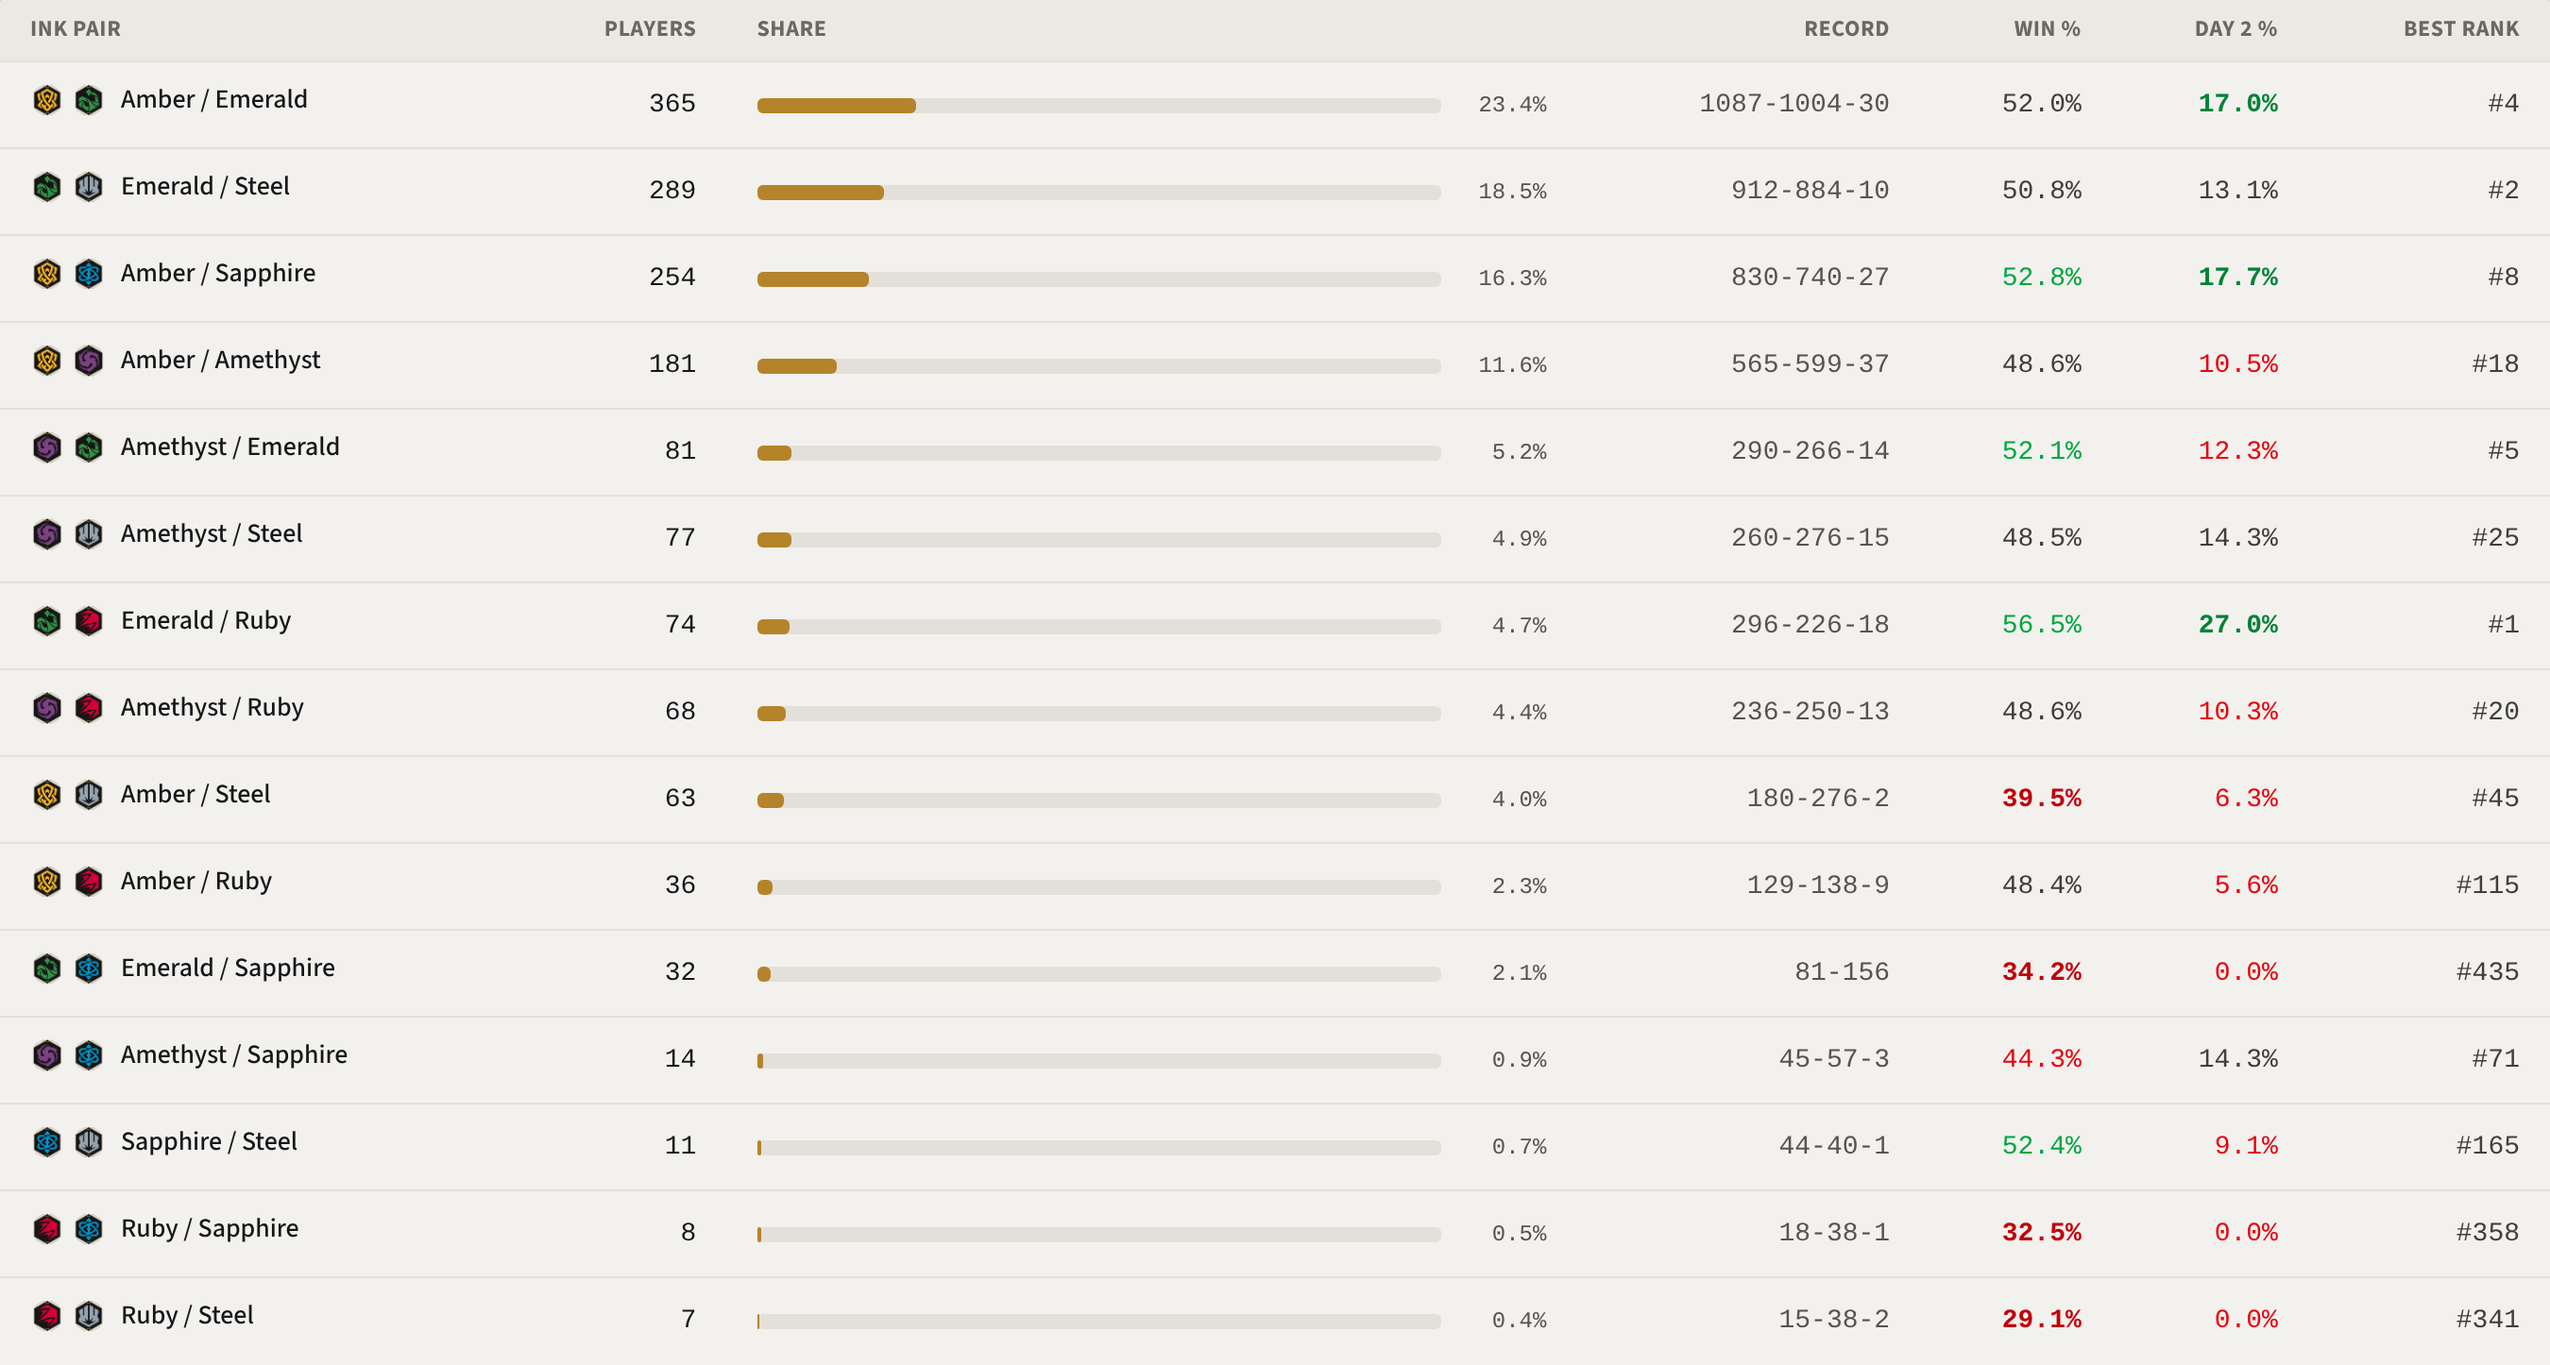
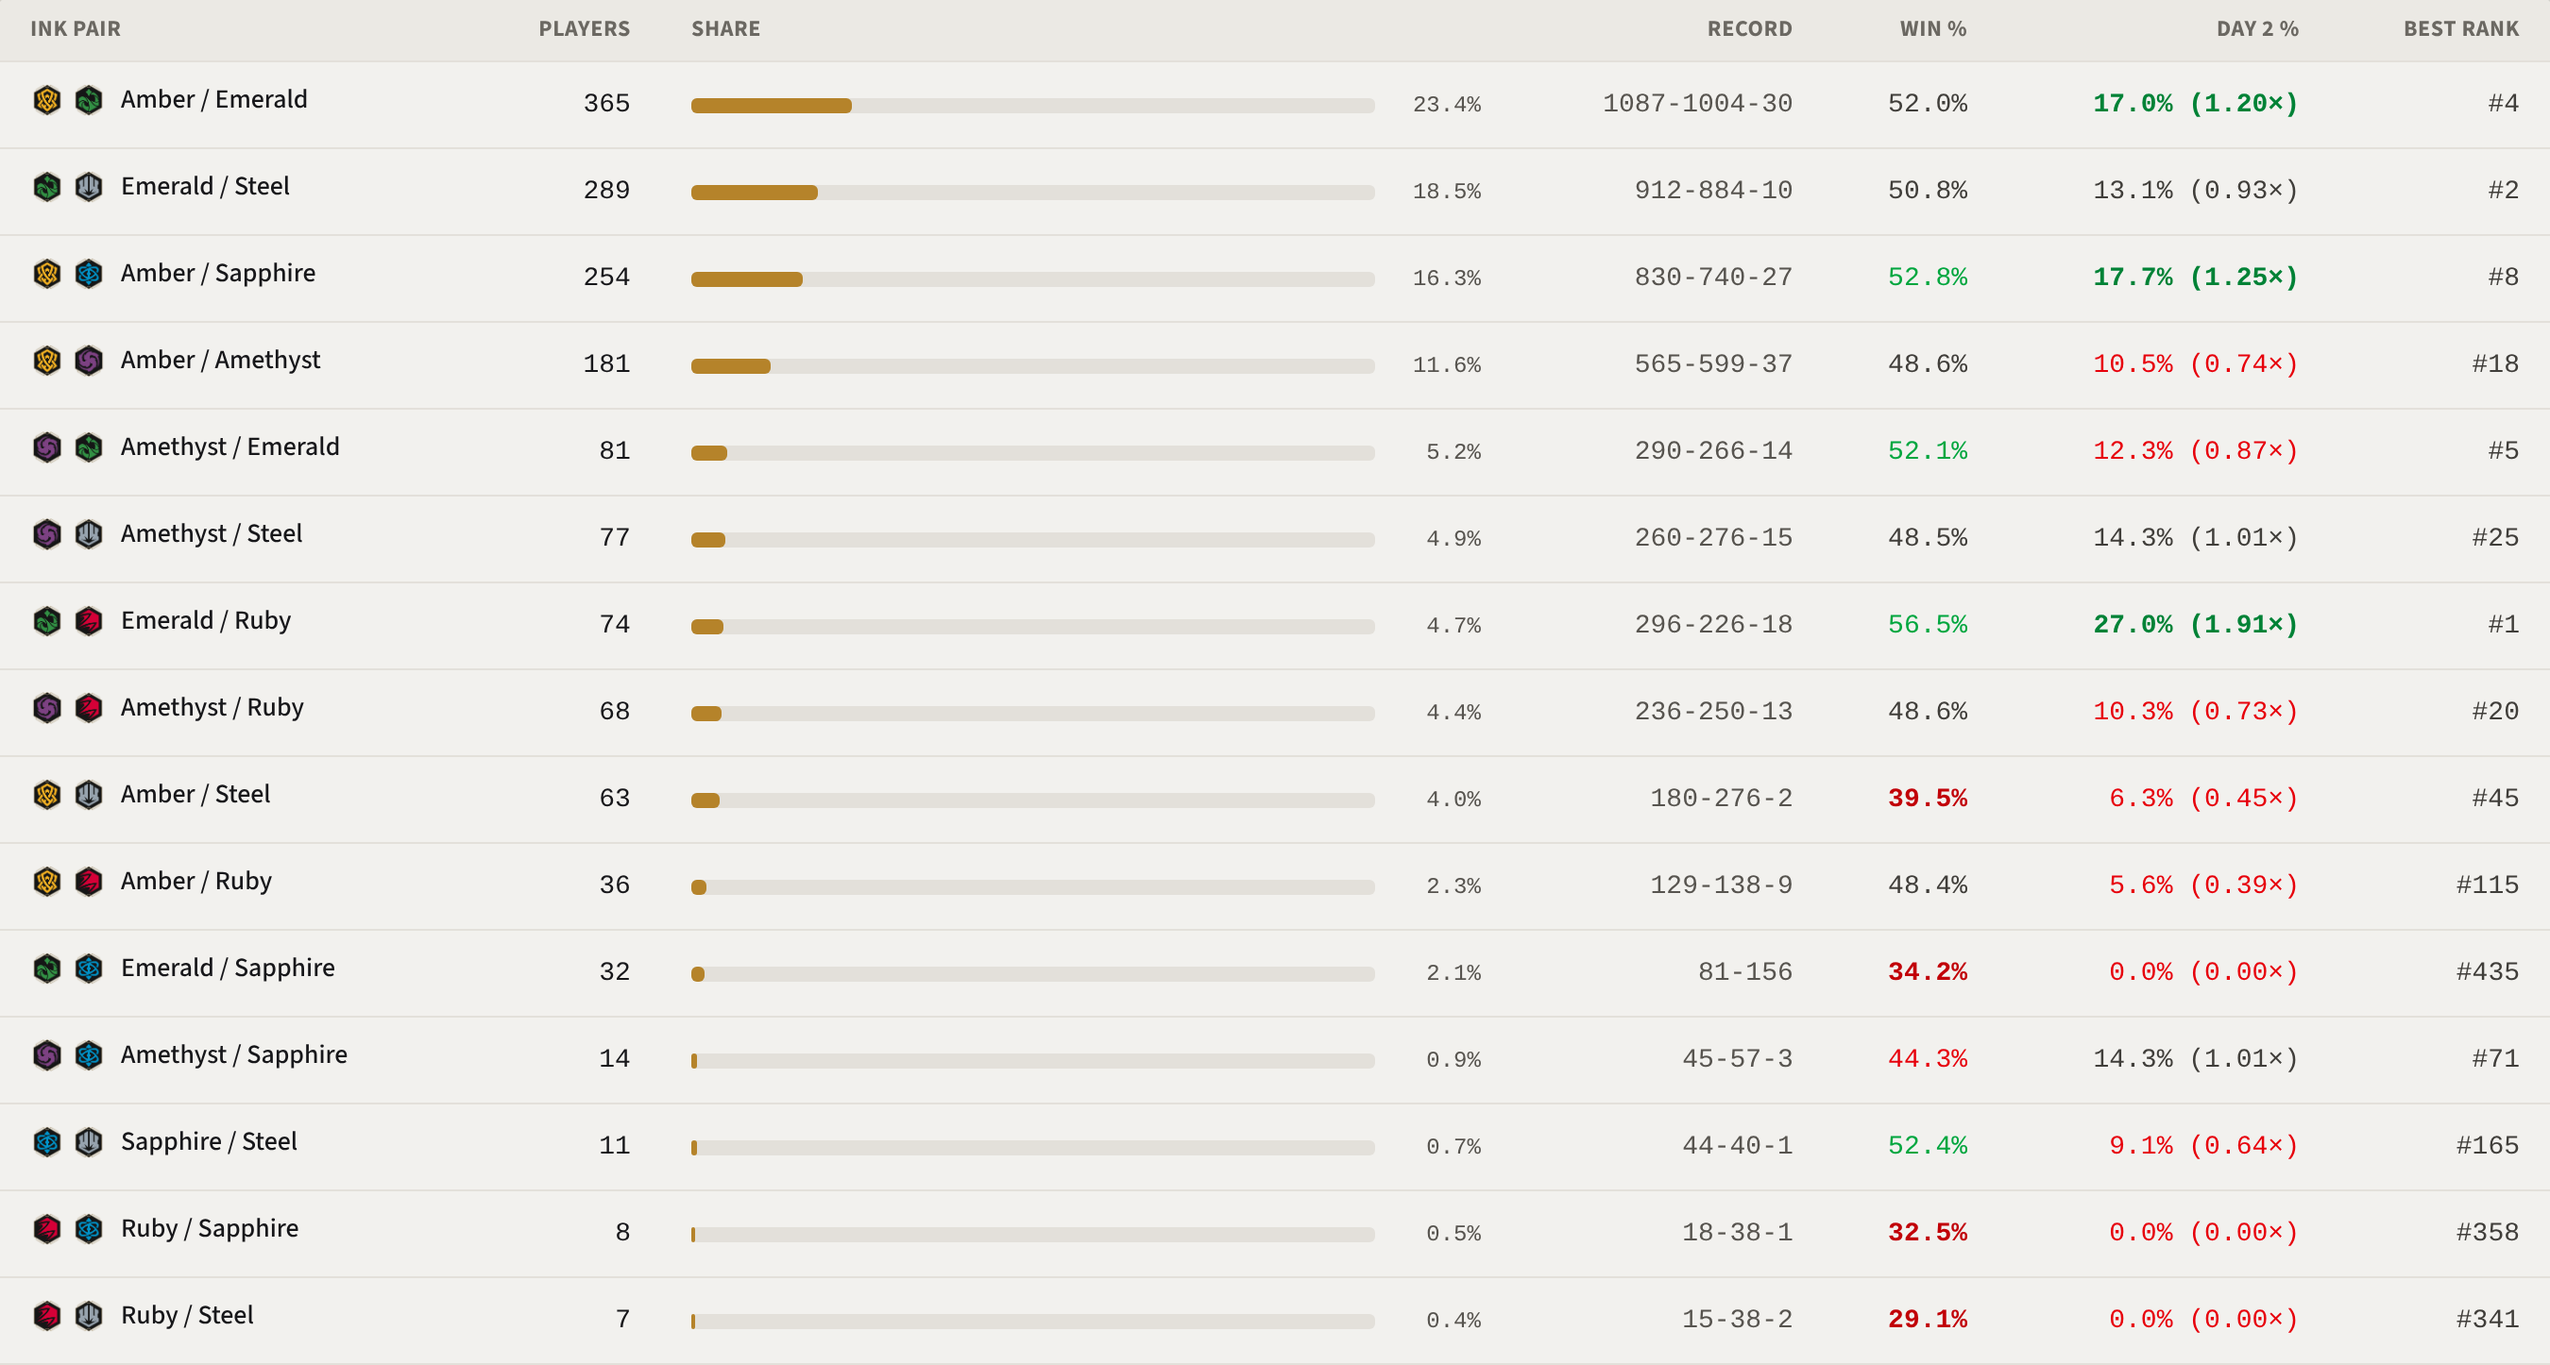
Metagame: show Day 2 lift in brackets beside the %
"17.0% (1.20×)" on the tab and both share images, so the ratio to the
field is read, not inferred from the color.

Claude-Session: https://claude.ai/code/session_01TJQgsyP1YdC9qdNy562f41

diff --git a/src/components/InkPairStats.jsx b/src/components/InkPairStats.jsx
@@ -169,8 +169,8 @@ export function InkMetaTab({ allMatches, structure, standings }) {
                   <td className="px-4 py-2.5 text-right font-mono text-gray-600">{record(r)}</td>
                   <td className={`px-4 py-2.5 text-right font-mono ${winrateTextColor(r.winRate)}`}>{pct(r.winRate)}</td>
                   {firstCut && (
-                    <td className={`px-4 py-2.5 text-right font-mono ${liftColor(firstCut.byKey.get(r.key)?.lift)}`} title={`${firstCut.byKey.get(r.key)?.count ?? 0} of ${r.players} · ${liftText(firstCut.byKey.get(r.key)?.lift)} the field`}>
-                      {pct(firstCut.byKey.get(r.key)?.conversion)}
+                    <td className={`px-4 py-2.5 text-right font-mono ${liftColor(firstCut.byKey.get(r.key)?.lift)}`} title={`${firstCut.byKey.get(r.key)?.count ?? 0} of ${r.players} made ${firstCut.label}`}>
+                      {pct(firstCut.byKey.get(r.key)?.conversion)} ({liftText(firstCut.byKey.get(r.key)?.lift)})
                     </td>
                   )}
                   {standings && <td className="px-4 py-2.5 text-right font-mono text-gray-700">{bestRank.has(r.key) ? `#${bestRank.get(r.key)}` : '—'}</td>}
@@ -181,7 +181,7 @@ export function InkMetaTab({ allMatches, structure, standings }) {
         </div>
         <p className="px-4 py-2 text-xs text-gray-500 border-t border-gray-100">
           {players} players with a submitted deck. Win % counts reported matches against other pairs (draws as half), mirrors excluded.
-          {firstCut && ` ${firstCut.label} % is the share of a pair's players who made ${firstCut.label} (field: ${pct(firstCut.field)}); green converted 10%+ better than the field, red 10%+ worse. The Conversion tab has every cut.`}
+          {firstCut && ` ${firstCut.label} % is the share of a pair's players who made ${firstCut.label} (field: ${pct(firstCut.field)}); in brackets, that over the field's rate, so (1.20×) converted 20% better than the field. The Conversion tab has every cut.`}
         </p>
       </div>
       <ShareDownloadLink render={(video) => renderMetaShareImage({ matches: allMatches, structure, standings, firstCut, video })} filename={shareFilename(structure, 'metagame')} />

diff --git a/src/lib/tournamentLookupShareImage.js b/src/lib/tournamentLookupShareImage.js
@@ -63,7 +63,7 @@ const liftFill = (lift) => (lift == null ? MUTED : lift >= 1.1 ? WIN : lift <= 0
 export async function renderMetaShareImage({ matches, structure, standings, firstCut, video }) {
   const rows = inkPairMeta(matches)
   const bestRank = bestRankByPair(standings, playerInks(matches))
-  const rankCol = (standings ? 100 : 0) + (firstCut ? 110 : 0)
+  const rankCol = (standings ? 100 : 0) + (firstCut ? 200 : 0)
   const { icons, mark } = await loadAssets(rows.map((r) => r.inks))
   const PAD = 56
   const TOP = 236
@@ -103,13 +103,13 @@ export async function renderMetaShareImage({ matches, structure, standings, firs
     text(ctx, pct(wr), COLS.win, mid, { font: `600 24px ${DISPLAY}`, color, align: 'right', baseline: 'middle' })
     if (firstCut) {
       const cut = firstCut.byKey.get(r.key)
-      text(ctx, pct(cut?.conversion), COLS.cut, mid, { font: `600 24px ${DISPLAY}`, color: liftFill(cut?.lift), align: 'right', baseline: 'middle' })
+      text(ctx, `${pct(cut?.conversion)} (${liftText(cut?.lift)})`, COLS.cut, mid, { font: `600 24px ${DISPLAY}`, color: liftFill(cut?.lift), align: 'right', baseline: 'middle' })
     }
     if (standings) text(ctx, bestRank.has(r.key) ? `#${bestRank.get(r.key)}` : '—', COLS.best, mid, { font: `600 24px ${DISPLAY}`, align: 'right', baseline: 'middle' })
   })
 
   const note = firstCut
-    ? `${players.toLocaleString('en-US')} decks · win % vs other pairs, mirrors out · ${firstCut.label} %: made ${firstCut.label} (field ${pct(firstCut.field)})`
+    ? `${players.toLocaleString('en-US')} decks · win % vs other pairs, mirrors out · ${firstCut.label} % (× the field's ${pct(firstCut.field)})`
     : `${players.toLocaleString('en-US')} players with a submitted deck · win % vs other pairs, draws as half, mirrors left out`
   drawFooter(ctx, W, H, PAD, note, cam)
   return canvas

diff --git a/docs/agents/tournaments.md b/docs/agents/tournaments.md
@@ -16,7 +16,7 @@ Until a round has generated standings (`currentRoundId` is null) the page shows 
 
 ## Ink pairs (Metagame and Matchups tabs)
 
-Events that show deck descriptors (a phase's `effective_show_deck_descriptor_to_opponents`; DLC London 1254364 does, DLC Bangkok 1233041 does not) put each player's submitted deck's inks on every match as `player_match_relationships[].user_event_status.deck_descriptor_label` (`parts[0].value` "amethyst,ruby"). Standings and registrations do not carry it, and the profile picture (`EmeraldSteel.webp`) is the player's avatar, not their deck. Public on both hosts, no session; in London 1,477 players had one, each the same across all their rounds, and 53 slots had none (no deck submitted). `src/lib/tournamentInks.js` (unit-tested) reads it: `playerInks()` (shown beside names in Standings, Roster and Matches), `inkPairMeta()` (Metagame: players, share, the record against other pairs, mirrors excluded, and once standings exist each pair's best standings rank, `bestRankByPair()`, the same leaders as Best Of) and `inkPairMatrix()` (Matchups: each pair's overall win %, record and best rank beside the grid of the row pair's match win rate against each column pair, draws as half, mirrors on the diagonal). Byes, assigned losses and unreported matches are skipped. Both tabs appear only when a loaded match has a pair. Each tab ends with **Download Social Media Share**: `src/lib/tournamentLookupShareImage.js` draws the tab as a PNG on a canvas (2× scale) in the site's brand (ink black, forge gold, Oswald and Source Sans 3, the InkbornForge mark, `inkbornforge.com/tournament-lookup`), headed by the event name, format, starting players and the round the data runs through (`eventLine()`); the matchup image adds a vs-field column and fades cells under 5 matches. The **Best Of** tab (RPH's Best Of promo test: the highest-standing player on each ink pair wins a promo) lists the 15 two-ink pairs with the best-ranked player on each (`bestOfLeaders()`: the first standings row per pair, so RPH's tiebreakers settle ties; dropped players are not excluded). Each leader carries `tied`, the pair's other players on the same match points in standings order: the tab shows "N more on X pts", which expands to list them with rank and record, and the image adds "(and N others)", with the same share download (`renderBestOfShareImage()`). It needs standings as well as a pair. The **Conversion** tab (`ConversionTab`, `conversionFunnel()` and `cutQualifiers()` in `tournamentInks.js`) follows the field by ink pair through each cut: Day 1 players, then per cut the pair's players who made it, its conversion from the stage before and its lift over the field's conversion (1.25× = converted 25% better; lift, not the Day 2 minus Day 1 share delta, because a share delta can't move for a small pair). The cuts are `structure.cuts` (`phaseCuts()` in `tournamentApi.js`): each phase after the first with `rank_required_to_enter_phase` (Top 8) or `points_required_to_enter_phase` (a DLC's Day 2, 18), decided by the standings of the previous phase's last round once all its rounds exist and that round's standings are generated, so Day 2 shows as soon as Day 1's last round has standings, before any Day 2 match. RPH never puts the points cutoff on the event's phases: it lives on the event's configuration template (`event.phase_template_group` → `event-configuration-templates` → `allowed_phase_template_groups[].phase_templates[]`, matched by `order_in_phases`), which `fetchEventDetails()` fetches once per page load (`/api/tournament?type=templates`) and copies onto the phases (`withPhasePoints()`); `analyzeAdvancement` reads the same cutoff and counts only the rounds left in the current phase (`phaseRoundsRemaining`; a DLC's Day 2 rounds come after its Day 2 cut), while top-cut ID analysis keeps `swissRoundsRemaining`. The Discord bot's `api/_lib/discordTournamentApi.ts` fetches the templates the same way (its own `withPhasePoints()`, unit-tested in `api/_lib/__tests__/discordTournamentApi.test.ts`). Metagame adds a column for the first decided cut (`Day 2 %`, colored by lift), also on its share image (`renderMetaShareImage({ firstCut })`); both tabs read the deciding standings through `useCutStages()` in `InkPairStats.jsx`. Players without a submitted deck are left out of every stage (DLC London 1254364: 1,560 of 1,633; Day 2 221, 14.2%). Its share image is `renderConversionShareImage()`. Its pure helpers are unit-tested; the drawing is checked by rendering it in a browser. `api/tournament.ts` drops the descriptor's `symbols` (signed icon URLs) like the profile images.
+Events that show deck descriptors (a phase's `effective_show_deck_descriptor_to_opponents`; DLC London 1254364 does, DLC Bangkok 1233041 does not) put each player's submitted deck's inks on every match as `player_match_relationships[].user_event_status.deck_descriptor_label` (`parts[0].value` "amethyst,ruby"). Standings and registrations do not carry it, and the profile picture (`EmeraldSteel.webp`) is the player's avatar, not their deck. Public on both hosts, no session; in London 1,477 players had one, each the same across all their rounds, and 53 slots had none (no deck submitted). `src/lib/tournamentInks.js` (unit-tested) reads it: `playerInks()` (shown beside names in Standings, Roster and Matches), `inkPairMeta()` (Metagame: players, share, the record against other pairs, mirrors excluded, and once standings exist each pair's best standings rank, `bestRankByPair()`, the same leaders as Best Of) and `inkPairMatrix()` (Matchups: each pair's overall win %, record and best rank beside the grid of the row pair's match win rate against each column pair, draws as half, mirrors on the diagonal). Byes, assigned losses and unreported matches are skipped. Both tabs appear only when a loaded match has a pair. Each tab ends with **Download Social Media Share**: `src/lib/tournamentLookupShareImage.js` draws the tab as a PNG on a canvas (2× scale) in the site's brand (ink black, forge gold, Oswald and Source Sans 3, the InkbornForge mark, `inkbornforge.com/tournament-lookup`), headed by the event name, format, starting players and the round the data runs through (`eventLine()`); the matchup image adds a vs-field column and fades cells under 5 matches. The **Best Of** tab (RPH's Best Of promo test: the highest-standing player on each ink pair wins a promo) lists the 15 two-ink pairs with the best-ranked player on each (`bestOfLeaders()`: the first standings row per pair, so RPH's tiebreakers settle ties; dropped players are not excluded). Each leader carries `tied`, the pair's other players on the same match points in standings order: the tab shows "N more on X pts", which expands to list them with rank and record, and the image adds "(and N others)", with the same share download (`renderBestOfShareImage()`). It needs standings as well as a pair. The **Conversion** tab (`ConversionTab`, `conversionFunnel()` and `cutQualifiers()` in `tournamentInks.js`) follows the field by ink pair through each cut: Day 1 players, then per cut the pair's players who made it, its conversion from the stage before and its lift over the field's conversion (1.25× = converted 25% better; lift, not the Day 2 minus Day 1 share delta, because a share delta can't move for a small pair). The cuts are `structure.cuts` (`phaseCuts()` in `tournamentApi.js`): each phase after the first with `rank_required_to_enter_phase` (Top 8) or `points_required_to_enter_phase` (a DLC's Day 2, 18), decided by the standings of the previous phase's last round once all its rounds exist and that round's standings are generated, so Day 2 shows as soon as Day 1's last round has standings, before any Day 2 match. RPH never puts the points cutoff on the event's phases: it lives on the event's configuration template (`event.phase_template_group` → `event-configuration-templates` → `allowed_phase_template_groups[].phase_templates[]`, matched by `order_in_phases`), which `fetchEventDetails()` fetches once per page load (`/api/tournament?type=templates`) and copies onto the phases (`withPhasePoints()`); `analyzeAdvancement` reads the same cutoff and counts only the rounds left in the current phase (`phaseRoundsRemaining`; a DLC's Day 2 rounds come after its Day 2 cut), while top-cut ID analysis keeps `swissRoundsRemaining`. The Discord bot's `api/_lib/discordTournamentApi.ts` fetches the templates the same way (its own `withPhasePoints()`, unit-tested in `api/_lib/__tests__/discordTournamentApi.test.ts`). Metagame adds a column for the first decided cut (`Day 2 %` with its lift in brackets, "17.0% (1.20×)", colored by it), also on its share image (`renderMetaShareImage({ firstCut })`); both tabs read the deciding standings through `useCutStages()` in `InkPairStats.jsx`. Players without a submitted deck are left out of every stage (DLC London 1254364: 1,560 of 1,633; Day 2 221, 14.2%). Its share image is `renderConversionShareImage()`. Its pure helpers are unit-tested; the drawing is checked by rendering it in a browser. `api/tournament.ts` drops the descriptor's `symbols` (signed icon URLs) like the profile images.
 
 ## Top-cut outlook
 
